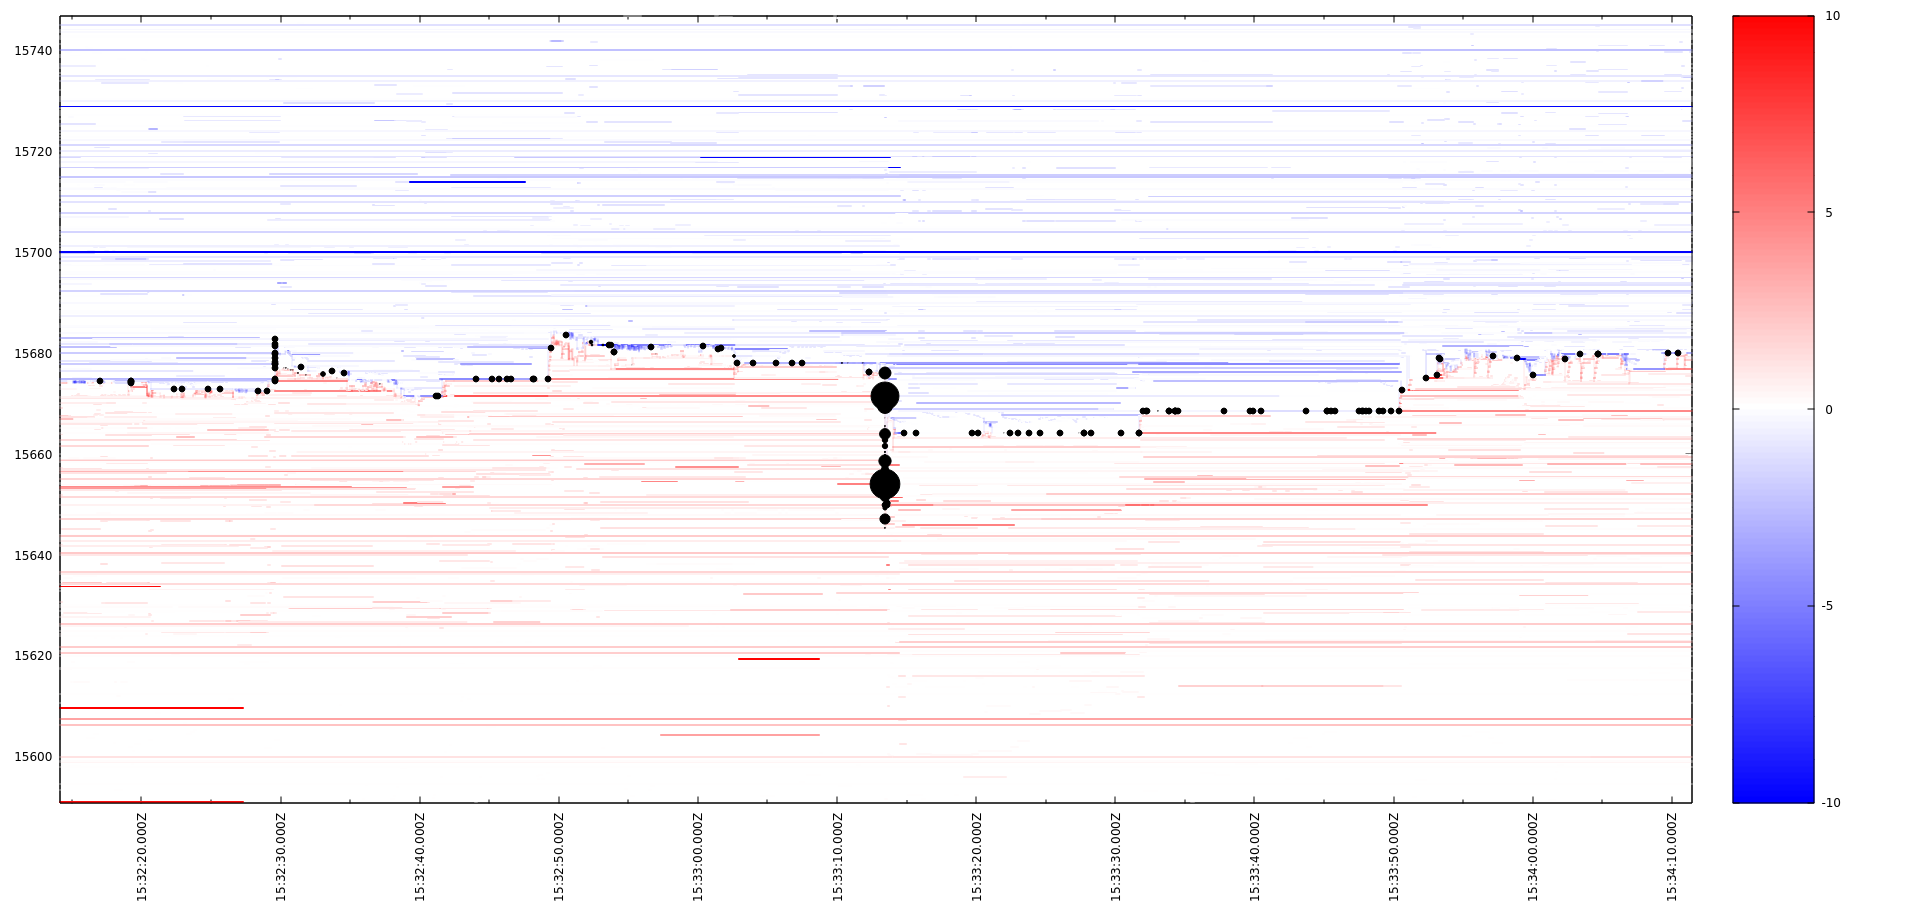
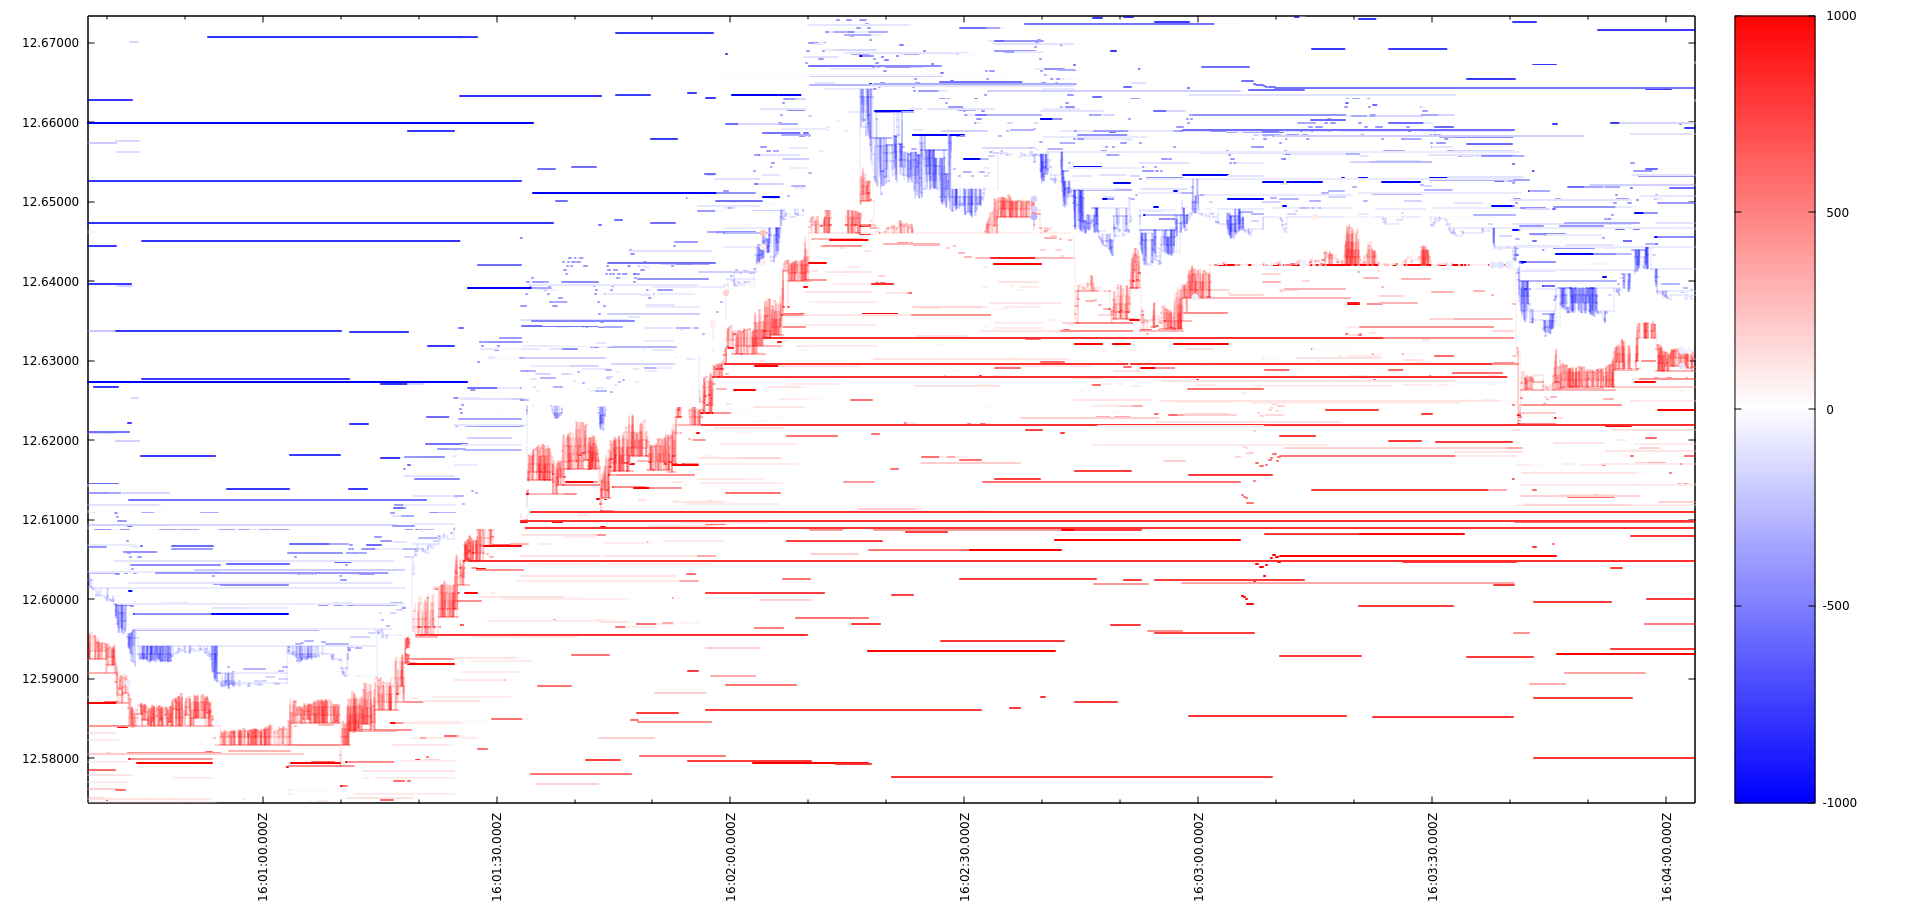
README.md updated. Names of several class methods are changed to be aligned with OBERON.

diff --git a/README.md b/README.md
@@ -1,8 +1,10 @@
 # MArket LIquidity (MALI)
 
-A stand-alone application for the transformation of the reconstructed order book events into a format suitable for a visualisation of market liquidity by [gnuplot](http://gnuplot.info/) or a similar application. An example of the visualisation is shown below:
+A stand-alone application for the transformation of the reconstructed order book events into a format suitable for a visualisation of market liquidity by [gnuplot](http://gnuplot.info/) or a similar application. An example of the visualisation (a few minutes of LINK-USD trading on Coinbase) is shown below:
 
 ![](mali.png)
+
+Trades are shown as white or hardly coloured dots due to their small (relative to order book price level) volumes.
 
 ## Installation
 
@@ -28,9 +30,16 @@ The installation instructions are for Debian 10.
 
 ## Usage
 
-    ./mali input-file-1 [input-file-2 ... input-file-N]
+    ./mali [options] input-file-1 [input-file-2 ... input-file-N]
 
 where `input-file-X` is a file containing reconstructed order book events (as produced by [OBERON](https://github.com/petr-fedorov/oberon)).
+
+Options:
+
+    -q [ --quote-increment ] arg (=0.01) specifies the minimum increment for the
+                                         quote currency (i.e. USD in BTC-USD)
+    -b [ --base-increment ] arg (=0.01)  specifies the minimum increment for the
+                                         base currency (i.e. BTC in BTC-USD)
 
 The program will output the following five files with self-explanatory names:
 * `best_bids.csv`
@@ -45,6 +54,11 @@ Remove or rename `trades.csv` if you don't want to visualise trades.
 Then launch gnuplot and enter the following commands:
 
     load ../cpp/mali.gp
-    # adjust the price range below as needed
-    set yrange [15200:15800]
+
+    # adjust format and ranges as needed
+
+    set format y "%10.5f"
+    set yrange [12.58:12.67]
+    set cbrange [-1000:1000]
+
     replot
